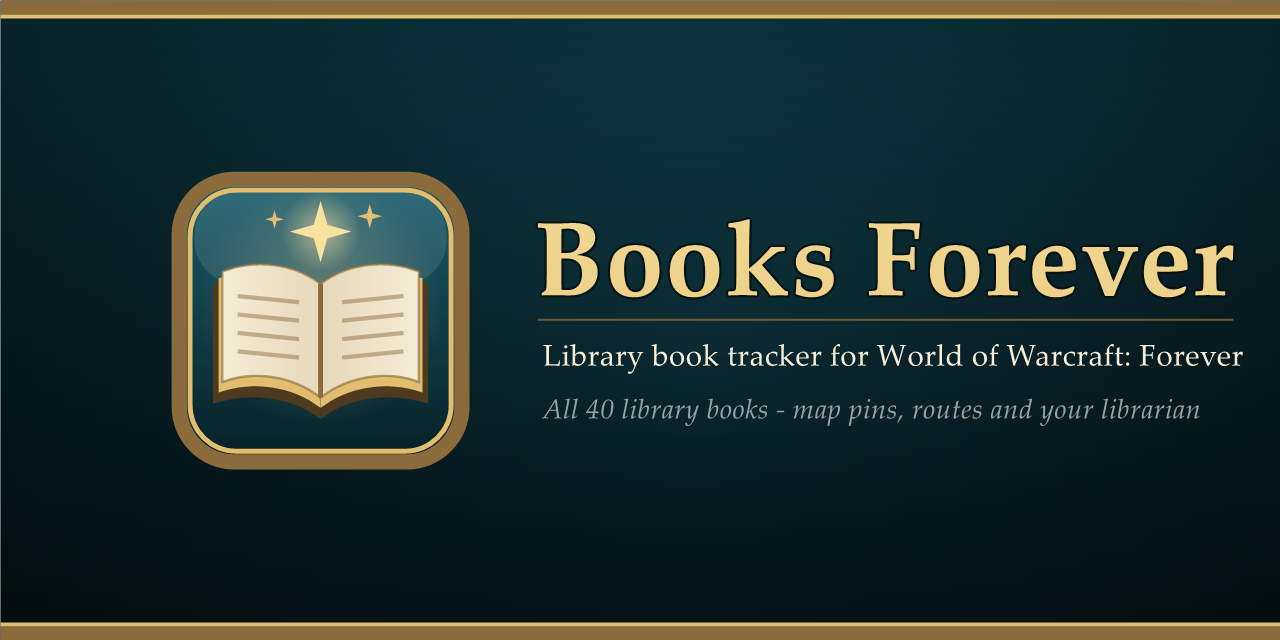
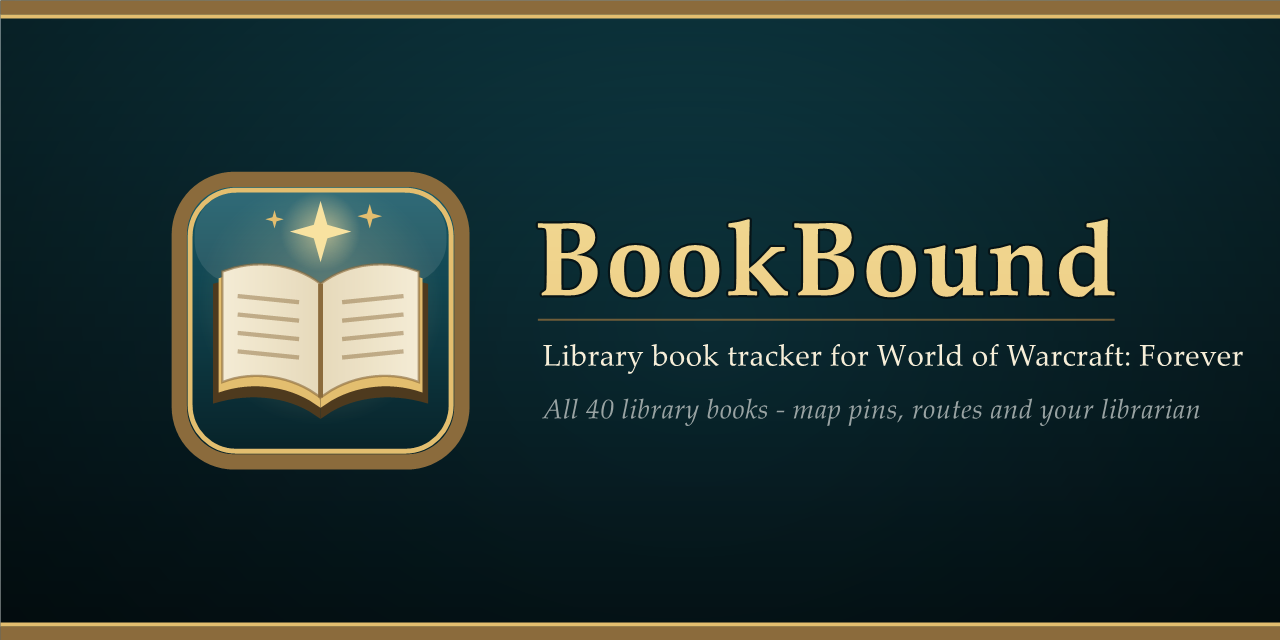
Rename to BookBound

Changed region(s): [[0.5938, 0.3438, 0.9688, 0.4688]]

diff --git a/README.md b/README.md
@@ -1,8 +1,8 @@
-![Books Forever](banner.png)
+![BookBound](banner.png)
 
-# Books Forever: Reports
+# BookBound: Reports
 
-This is where you report problems with **Books Forever**, the library-book tracker addon for
+This is where you report problems with **BookBound**, the library-book tracker addon for
 World of Warcraft: Forever. It holds reports only. The addon itself isn't downloaded from here.
 
 ## Report a wrong book location
